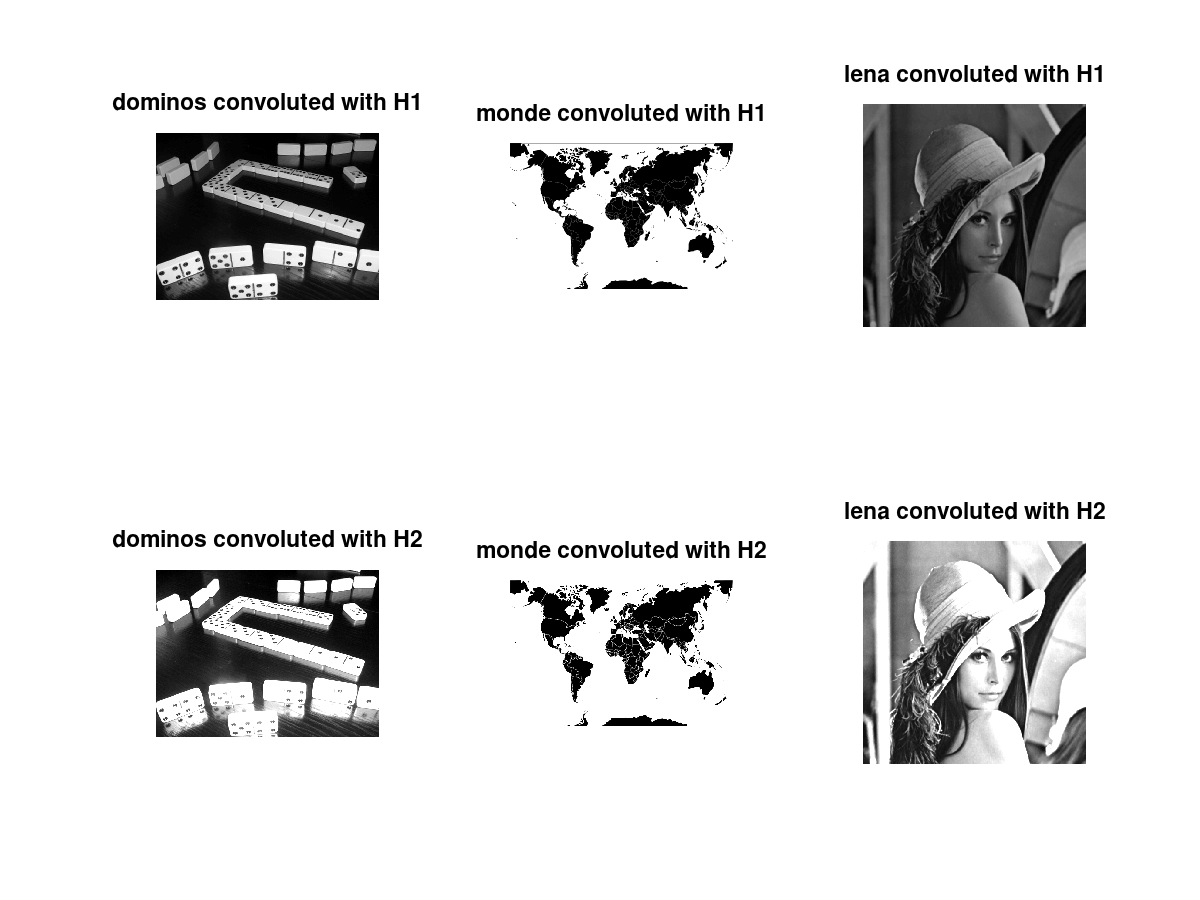
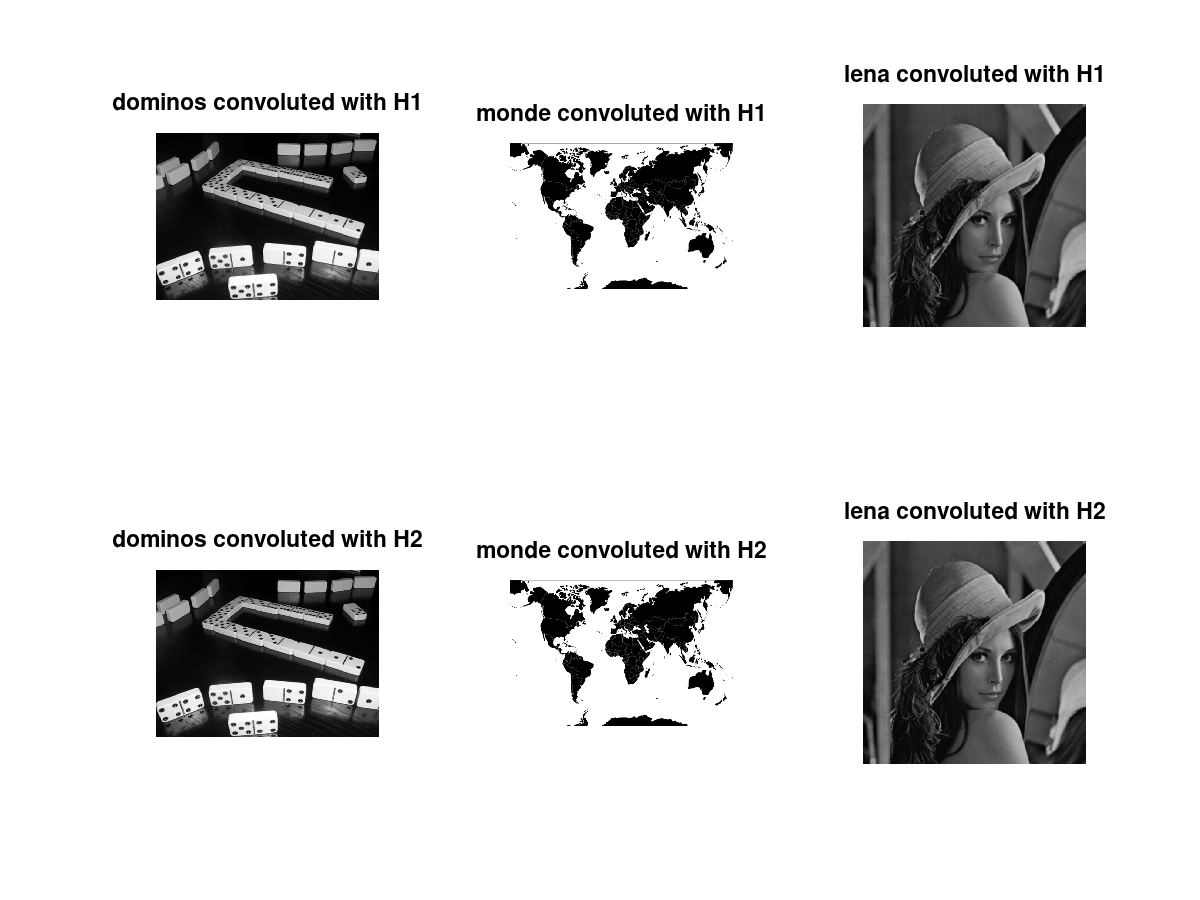
:sparkles: Answered question in part 1

diff --git a/TP3/tp3.m b/TP3/tp3.m
@@ -82,10 +82,38 @@ imshow(conv2(monde', H4, "same"));
 title("monde transposed convoluted with H4");
 saveas(f, "output/monde_transposed_conv2_h3_h4.png");
 
+% Change H3 to detect diagonal
+H3 = [-1, -1, 0; -1, 0, 1; 0, 1, 1];
+
+monde_conv_h3 = conv(monde, H3);
+monde_t_conv_h3 = conv(monde', H3);
+
+figure;
+subplot(1, 2, 1);
+imshow(monde_conv_h3);
+title("monde convoluted with H3 diagonal");
+f = subplot(1, 2, 2);
+imshow(monde_t_conv_h3);
+title("monde convoluted with H3 diagonal");
+saveas(f, "output/monde_transposed_conv2_h3_diag.png");
+
+% Combine H3 and H4
+
+monde_conv_h3_h4 = conv(monde, H3);
+monde_conv_h3_h4 = conv(monde_conv_h3_h4, H4);
+figure;
+subplot(1, 2, 1);
+imshow(monde_conv_h3_h4);
+title("monde convoluted with H3 and H4");
+f = subplot(1, 2, 2);
+imshow(monde_conv_h5);
+title("monde convoluted with H5");
+saveas(f, "output/monde_conv2_comb_h3_h4.png");
+
 # 2 - Filtres passe haut
 
 H1 = (1/9) * ones([3, 3]);
-H2 = (1/6) * [1, 2, 1; 2, 4, 2; 1, 2, 1];
+H2 = (1/16) * [1, 2, 1; 2, 4, 2; 1, 2, 1];
 
 % Plot all convolution of images with H1 and H2
 [dominos_conv_h1, monde_conv_h1, lena_conv_h1] = convImages(H1);

diff --git a/TP3/TP3.md b/TP3/TP3.md
@@ -26,6 +26,14 @@ dominos_conv_h3 = conv2(dominos, H3, 'same');
 
 ![Convolution 2D de monde et sa transposé avec les masques H3, H4](output/monde_transposed_conv2_h1_h2.png)
 
+Pour détecter les diagonales, nous utilisons le masque suivant :
+
+|    |    |    |
+|----|----|----|
+| -1 | -1 | 0  |
+| -1 | 0  | 1  |
+| 0  | 1  | 1  |
+
 ### 2 - Filtres passe bas
 
 ![Convolution 2D des images avec les masques H1 et H2](output/all_conv2_h1_h2.png)
